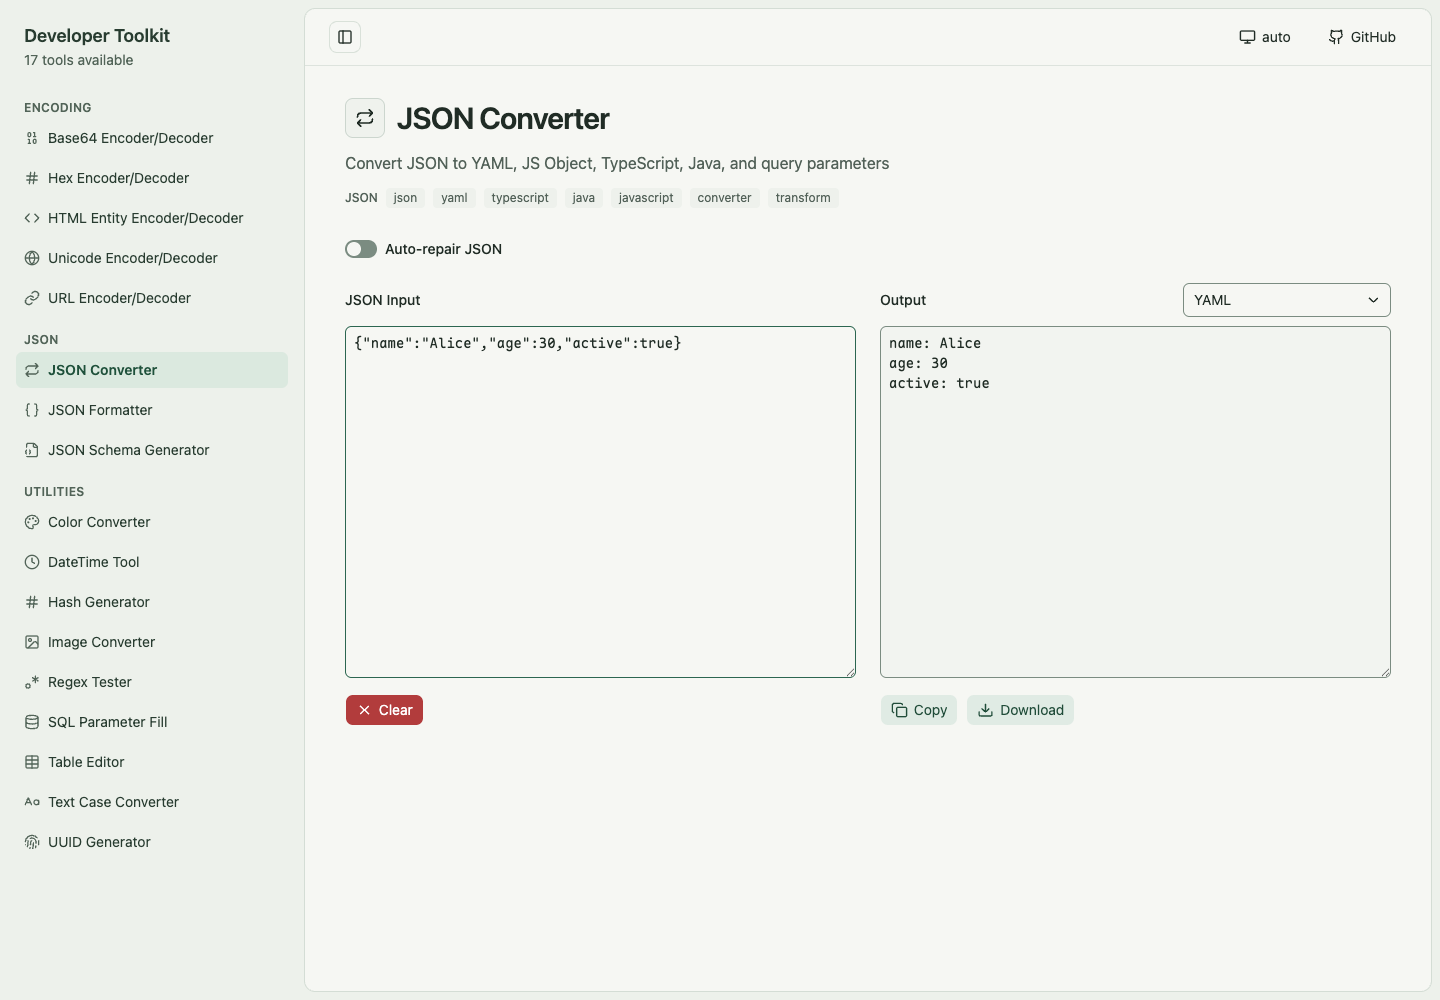
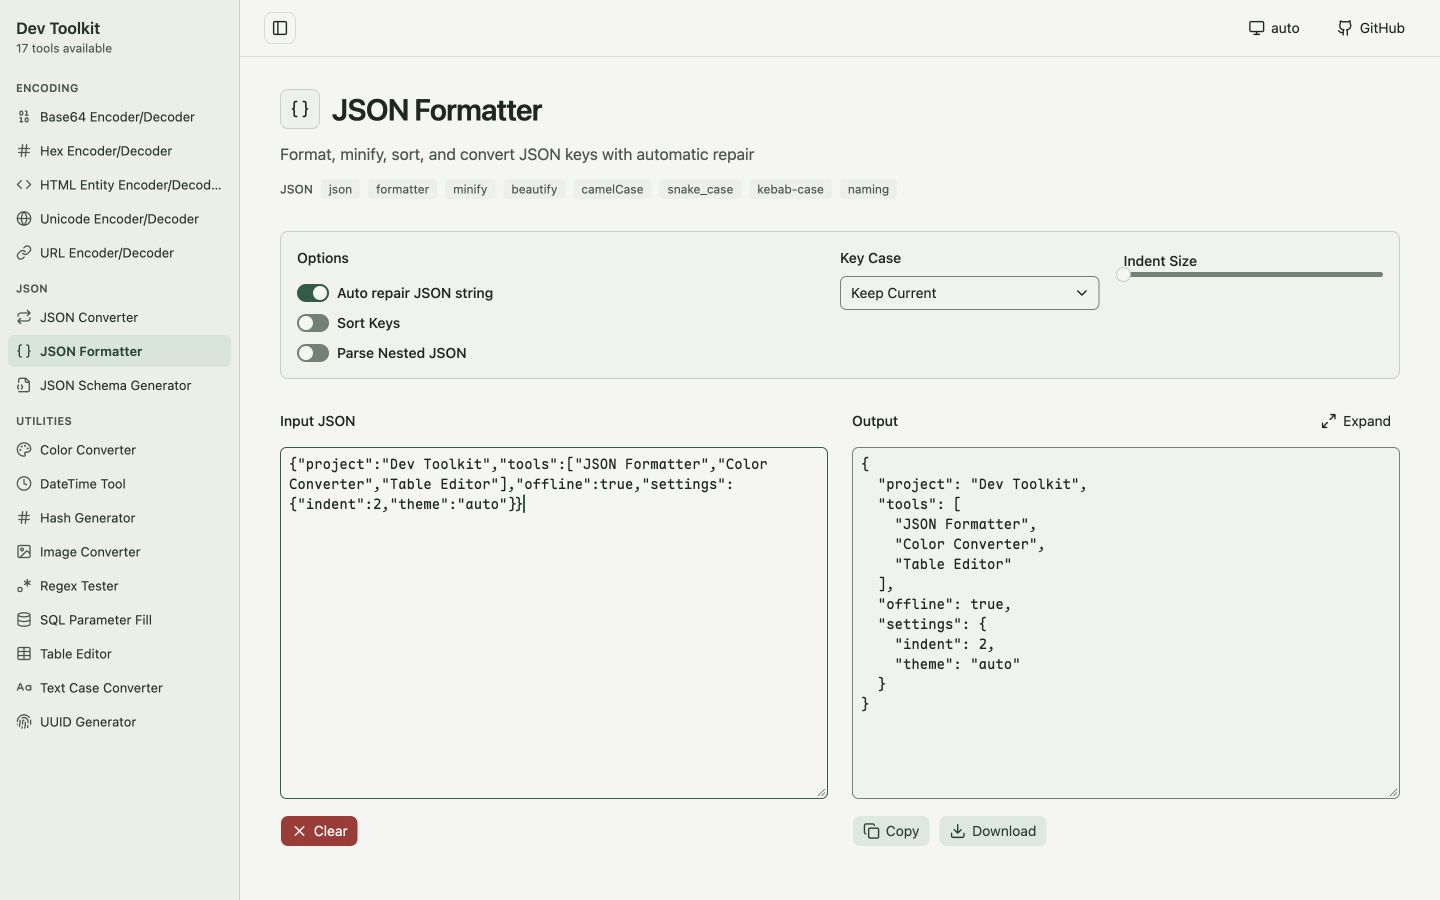
fix live sliders, JSON input loops and compact navigation

diff --git a/src/pages/(tools)/(utilities)/color.tsx b/src/pages/(tools)/(utilities)/color.tsx
@@ -31,7 +31,11 @@ const formats: ColorFormat[] = ['hex', 'rgb', 'hsl', 'hwb', 'oklch']
 const MAX_COLORS = 24
 
 function ColorConverter() {
-  const [rgb, setRgb] = createSignal<RGB>(randomColor())
+  const initialRgb = randomColor()
+  const [color, setColor] = createSignal({ rgb: initialRgb, hsl: rgbToHsl(initialRgb) })
+  const rgb = () => color().rgb
+  const hsl = () => color().hsl
+  const setRgb = (value: RGB) => setColor({ rgb: value, hsl: rgbToHsl(value) })
   const [savedColors, setSavedColors] = createSignal<string[]>([])
   const [inputValue, setInputValue] = createSignal('')
 
@@ -76,13 +80,13 @@ function ColorConverter() {
   }
 
   const updateFromSliders = (component: 'r' | 'g' | 'b', value: number) => {
-    setRgb((prev) => ({ ...prev, [component]: value }))
+    setRgb({ ...rgb(), [component]: value })
   }
 
   const updateFromHsl = (component: 'h' | 's' | 'l', value: number) => {
-    const hsl = rgbToHsl(rgb())
-    hsl[component] = value
-    setRgb(hslToRgb(hsl))
+    // Preserve hue and saturation while editing achromatic colors.
+    const next = { ...hsl(), [component]: value }
+    setColor({ rgb: hslToRgb(next), hsl: next })
   }
 
   return (
@@ -181,7 +185,7 @@ function ColorConverter() {
                   <Slider
                     aria-label="Red"
                     value={[Math.round(rgb().r)]}
-                    onValueCommit={(value) => updateFromSliders('r', value[0])}
+                    onValueChange={(value) => updateFromSliders('r', value[0])}
                     min={0}
                     max={255}
                     step={1}
@@ -192,7 +196,7 @@ function ColorConverter() {
                   <Slider
                     aria-label="Green"
                     value={[Math.round(rgb().g)]}
-                    onValueCommit={(value) => updateFromSliders('g', value[0])}
+                    onValueChange={(value) => updateFromSliders('g', value[0])}
                     min={0}
                     max={255}
                     step={1}
@@ -203,7 +207,7 @@ function ColorConverter() {
                   <Slider
                     aria-label="Blue"
                     value={[Math.round(rgb().b)]}
-                    onValueCommit={(value) => updateFromSliders('b', value[0])}
+                    onValueChange={(value) => updateFromSliders('b', value[0])}
                     min={0}
                     max={255}
                     step={1}
@@ -222,8 +226,8 @@ function ColorConverter() {
                   <label class="font-medium text-sm">Hue</label>
                   <Slider
                     aria-label="Hue"
-                    value={[Math.round(rgbToHsl(rgb()).h)]}
-                    onValueCommit={(value) => updateFromHsl('h', value[0])}
+                    value={[Math.round(hsl().h)]}
+                    onValueChange={(value) => updateFromHsl('h', value[0])}
                     min={0}
                     max={360}
                     step={1}
@@ -233,8 +237,8 @@ function ColorConverter() {
                   <label class="font-medium text-sm">Saturation</label>
                   <Slider
                     aria-label="Saturation"
-                    value={[Math.round(rgbToHsl(rgb()).s)]}
-                    onValueCommit={(value) => updateFromHsl('s', value[0])}
+                    value={[Math.round(hsl().s)]}
+                    onValueChange={(value) => updateFromHsl('s', value[0])}
                     min={0}
                     max={100}
                     step={1}
@@ -244,8 +248,8 @@ function ColorConverter() {
                   <label class="font-medium text-sm">Lightness</label>
                   <Slider
                     aria-label="Lightness"
-                    value={[Math.round(rgbToHsl(rgb()).l)]}
-                    onValueCommit={(value) => updateFromHsl('l', value[0])}
+                    value={[Math.round(hsl().l)]}
+                    onValueChange={(value) => updateFromHsl('l', value[0])}
                     min={0}
                     max={100}
                     step={1}

diff --git a/src/pages/_app.tsx b/src/pages/_app.tsx
@@ -46,28 +46,28 @@ function App(props: RouteSectionProps) {
       renderSidebarHeader={() => (
         <A
           href="/"
-          class="px-2 py-1.5 block transition-colors duration-150 rounded-md hover:bg-sidebar-accent"
+          class="px-2 py-2 block transition-colors duration-150 rounded-md hover:bg-sidebar-accent"
         >
-          <h2 class="text-sidebar-foreground font-semibold text-lg">Developer Toolkit</h2>
-          <p class="text-sidebar-muted-foreground text-sm">{count} tools available</p>
+          <h2 class="text-sidebar-foreground font-semibold text-base">Dev Toolkit</h2>
+          <p class="text-sidebar-muted-foreground text-xs">{count} tools available</p>
         </A>
       )}
       renderSidebarBody={(sidebar) => (
-        <div class="mt-4 flex flex-col gap-4">
+        <div class="mt-2 flex flex-col gap-3">
           <For each={categories}>
             {(category) => (
               <section class="flex flex-col gap-1">
-                <h3 class="text-sidebar-muted-foreground tracking-wide font-semibold px-2 uppercase text-xs">
+                <h3 class="text-[11px] text-sidebar-muted-foreground tracking-wide font-semibold px-2 uppercase">
                   {category.name}
                 </h3>
-                <div class="flex flex-col gap-1">
+                <div class="flex flex-col gap-0.5">
                   <For each={category.tools}>
                     {(tool) => (
                       <A
                         href={tool.path}
                         title={tool.info.title}
                         class={cn(
-                          'group text-sidebar-foreground leading-5 px-2 py-2 flex gap-2 transition-colors duration-200 ease-out items-center text-sm rounded-md hover:(text-sidebar-accent-foreground bg-sidebar-accent) focus-visible:effect-fv',
+                          'group text-[13px] text-sidebar-foreground leading-5 px-2 py-1 flex gap-2 min-h-11 transition-colors duration-200 ease-out items-center rounded-md hover:(text-sidebar-accent-foreground bg-sidebar-accent) focus-visible:effect-fv md:min-h-8',
                           props.location.pathname.endsWith(tool.path) &&
                             'text-sidebar-accent-foreground font-semibold bg-sidebar-accent',
                         )}
@@ -81,7 +81,7 @@ function App(props: RouteSectionProps) {
                           name={tool.info.icon as any}
                           class="text-sidebar-muted-foreground shrink-0 size-4 transition-colors duration-200 group-hover:text-sidebar-accent-foreground"
                         />
-                        <span>{tool.info.title}</span>
+                        <span class="truncate">{tool.info.title}</span>
                       </A>
                     )}
                   </For>
@@ -93,7 +93,7 @@ function App(props: RouteSectionProps) {
       )}
     >
       <div class="flex flex-col min-h-full min-w-0">
-        <header class="px-4 py-3 border-b border-border/60 flex gap-3 items-center justify-between sm:px-6">
+        <header class="px-4 py-3 border-b border-border/60 bg-background flex gap-3 items-center top-0 justify-between sticky z-20 sm:px-6">
           <SidebarTrigger />
           <div class="flex gap-2 items-center">
             <ThemeToggle class="min-w-22" />

diff --git a/src/components/moraine-migration.test.tsx b/src/components/moraine-migration.test.tsx
@@ -6,6 +6,7 @@ import { afterEach, beforeEach, describe, expect, it, vi } from 'vitest'
 
 import { RegexProvider, useRegexContext } from '#/contexts/regex-context'
 import { TableEditorProvider, useTableEditorContext } from '#/contexts/table-editor-context'
+import ColorRoute from '#/pages/(tools)/(utilities)/color'
 import TextCaseRoute from '#/pages/(tools)/(utilities)/text-case'
 import UUIDRoute from '#/pages/(tools)/(utilities)/uuid'
 
@@ -85,7 +86,7 @@ describe('tool UI integrations', () => {
     expect(screen.getByRole('heading', { name: 'Generated UUIDs (11)' })).toBeTruthy()
   })
 
-  it('delivers image format, quality, and aspect ratio changes as domain values', async () => {
+  it('delivers image settings as domain values and quality changes before release', async () => {
     const onFormatChange = vi.fn()
     const onQualityChange = vi.fn()
     const onRatioChange = vi.fn()
@@ -109,9 +110,36 @@ describe('tool UI integrations', () => {
     expect(onRatioChange).toHaveBeenCalledWith(false)
     const slider = screen.getByRole('slider', { name: 'Thumb' })
     fireEvent.keyDown(slider, { key: 'ArrowRight' })
-    expect(onQualityChange).not.toHaveBeenCalled()
-    fireEvent.keyUp(slider, { key: 'ArrowRight' })
     expect(onQualityChange).toHaveBeenCalledWith(81)
+    fireEvent.keyUp(slider, { key: 'ArrowRight' })
+    expect(onQualityChange).toHaveBeenCalledTimes(1)
+  })
+
+  it('preserves the selected hue of a gray color when saturation is increased', () => {
+    render(() => (
+      <MemoryRouter>
+        <Route path="/" component={ColorRoute.component} />
+      </MemoryRouter>
+    ))
+
+    fireEvent.input(screen.getByRole('textbox', { name: 'Color value' }), {
+      target: { value: '#808080' },
+    })
+    const hue = within(screen.getByRole('group', { name: 'Hue' })).getByRole('slider', {
+      name: 'Thumb',
+    })
+    fireEvent.keyDown(hue, { key: 'ArrowRight' })
+    fireEvent.keyUp(hue, { key: 'ArrowRight' })
+    expect(hue.getAttribute('aria-valuenow')).toBe('1')
+
+    const saturation = within(screen.getByRole('group', { name: 'Saturation' })).getByRole(
+      'slider',
+      { name: 'Thumb' },
+    )
+    fireEvent.keyDown(saturation, { key: 'End' })
+    fireEvent.keyUp(saturation, { key: 'End' })
+    expect(hue.getAttribute('aria-valuenow')).toBe('1')
+    expect(screen.getByText('hsl(1, 100%, 50%)')).toBeTruthy()
   })
 
   it('opens table export and updates SQL when key columns are checked and unchecked', async () => {

diff --git a/src/pages/(tools)/(json)/json-schema-generator.tsx b/src/pages/(tools)/(json)/json-schema-generator.tsx
@@ -1,6 +1,6 @@
 import { Input, Switch, Textarea } from 'moraine'
 import { createRoute } from 'solid-file-router'
-import { createEffect, createSignal } from 'solid-js'
+import { createEffect, createSignal, on } from 'solid-js'
 import { toast } from 'solid-toaster'
 
 import { ClearButton } from '#/components/clear-button'
@@ -27,24 +27,26 @@ function JSONSchemaGenerator() {
   const [title, setTitle] = createSignal('')
   const [description, setDescription] = createSignal('')
 
-  createEffect(() => {
-    if (!input().trim()) {
-      setOutput('')
-      return
-    }
-    try {
-      const schema = generateJsonSchema(input(), {
-        required: required(),
-        additionalProperties: additionalProperties(),
-        title: title() || undefined,
-        description: description() || undefined,
-      })
-      setOutput(schema)
-    } catch {
-      setOutput('')
-      toast.error('Invalid JSON input')
-    }
-  })
+  createEffect(
+    on([input, required, additionalProperties, title, description], () => {
+      if (!input().trim()) {
+        setOutput('')
+        return
+      }
+      try {
+        const schema = generateJsonSchema(input(), {
+          required: required(),
+          additionalProperties: additionalProperties(),
+          title: title() || undefined,
+          description: description() || undefined,
+        })
+        setOutput(schema)
+      } catch {
+        setOutput('')
+        toast.error('Invalid JSON input')
+      }
+    }),
+  )
 
   const handleClear = () => {
     setInput('')

diff --git a/src/pages/(tools)/(json)/json-converter.tsx b/src/pages/(tools)/(json)/json-converter.tsx
@@ -1,6 +1,6 @@
 import { Field, Select, Switch, Textarea } from 'moraine'
 import { createRoute } from 'solid-file-router'
-import { createEffect, createSignal } from 'solid-js'
+import { createEffect, createSignal, on } from 'solid-js'
 import { toast } from 'solid-toaster'
 
 import { ClearButton } from '#/components/clear-button'
@@ -52,7 +52,7 @@ function JSONConverter() {
 
     switch (conversionMode) {
       case 'yaml':
-        result = jsonToYAML(inputValue)
+        result = jsonToYAML(inputValue, repair)
         break
       case 'js-object':
         result = jsonToJSObject(inputValue, repair)
@@ -64,7 +64,7 @@ function JSONConverter() {
         result = jsonToJavaClass(inputValue, repair)
         break
       case 'query-params':
-        result = jsonToQueryParams(inputValue)
+        result = jsonToQueryParams(inputValue, repair)
         break
       default:
         result = { success: false, error: { message: 'Unknown conversion mode' } }
@@ -82,9 +82,11 @@ function JSONConverter() {
   }
 
   // Auto-convert on input or mode change
-  createEffect(() => {
-    convert(input(), mode(), useRepair())
-  })
+  createEffect(
+    on([input, mode, useRepair], ([value, conversionMode, repair]) => {
+      convert(value, conversionMode, repair)
+    }),
+  )
 
   const getFileExtension = () => {
     const modeToExtension: Record<ConversionMode, string> = {

diff --git a/src/utils/json/converter.ts b/src/utils/json/converter.ts
@@ -100,9 +100,9 @@ export function csvToJSON(input: string, hasHeaders?: boolean): ConversionResult
  * @param input - JSON string to convert
  * @returns ConversionResult with YAML output or error
  */
-export function jsonToYAML(input: string): ConversionResult {
+export function jsonToYAML(input: string, useRepair: boolean = false): ConversionResult {
   try {
-    const parsed = JSON.parse(input)
+    const parsed = JSON.parse(useRepair ? repairJSON(input) : input)
     const yamlOutput = stringify(parsed, {
       indent: 2,
       lineWidth: 0, // No line wrapping
@@ -146,9 +146,9 @@ export function yamlToJSON(input: string): ConversionResult {
  * @param input - JSON string to convert
  * @returns ConversionResult with query parameters output or error
  */
-export function jsonToQueryParams(input: string): ConversionResult {
+export function jsonToQueryParams(input: string, useRepair: boolean = false): ConversionResult {
   try {
-    const parsed = JSON.parse(input)
+    const parsed = JSON.parse(useRepair ? repairJSON(input) : input)
 
     // Only handle flat objects for query parameters
     if (typeof parsed !== 'object' || parsed === null || Array.isArray(parsed)) {

diff --git a/src/utils/json/converter.test.ts b/src/utils/json/converter.test.ts
@@ -1,6 +1,25 @@
 import { describe, expect, test } from 'vitest'
 
-import { jsonToJavaClass, jsonToJSObject, jsonToTSDefinition } from './converter'
+import {
+  jsonToJavaClass,
+  jsonToJSObject,
+  jsonToTSDefinition,
+  jsonToYAML,
+  jsonToQueryParams,
+} from './converter'
+
+describe('JSON repair in data exports', () => {
+  test.each([
+    ['YAML', jsonToYAML, 'name: Alice'],
+    ['query parameters', jsonToQueryParams, 'name=Alice'],
+  ] as const)('repairs malformed input for %s only when enabled', (_, convert, expected) => {
+    const input = '{name: "Alice",}'
+    expect(convert(input).success).toBe(false)
+    const result = convert(input, true)
+    expect(result.success).toBe(true)
+    expect(result.output).toContain(expected)
+  })
+})
 
 describe('jsonToJSObject', () => {
   test('converts simple JSON to JS object', () => {

diff --git a/src/components/ui/sidebar.tsx b/src/components/ui/sidebar.tsx
@@ -30,11 +30,10 @@ interface SidebarLayoutProps {
 export function SidebarLayout(props: SidebarLayoutProps) {
   return (
     <SidebarFrame
-      variant="inset"
+      variant="default"
       classes={{
-        root: 'bg-sidebar gap-2',
-        sidebar:
-          'bg-sidebar text-sidebar-foreground w-[clamp(14rem,20vw,20rem)] duration-200 ease-out',
+        root: 'bg-sidebar h-[100dvh]',
+        sidebar: 'bg-sidebar text-sidebar-foreground w-60 duration-200 ease-out',
         sidebarHeader: 'p-2',
         sidebarBody: 'px-2 pb-2',
         main: 'bg-background min-w-0',

diff --git a/src/components/image-converter/output-settings.tsx b/src/components/image-converter/output-settings.tsx
@@ -45,7 +45,7 @@ export const OutputSettings: Component<OutputSettingsProps> = (props) => {
           <Slider
             aria-label="Image Quality"
             value={[props.quality]}
-            onValueCommit={(value) => props.onQualityChange(value[0])}
+            onValueChange={(value) => props.onQualityChange(value[0])}
             min={1}
             max={100}
             step={1}

diff --git a/src/pages/(tools)/(json)/json-formatter.tsx b/src/pages/(tools)/(json)/json-formatter.tsx
@@ -175,7 +175,7 @@ function JSONFormatter() {
           <Slider
             aria-label="Indent Size"
             value={[indent()]}
-            onValueCommit={(value) => setIndent(value[0])}
+            onValueChange={(value) => setIndent(value[0])}
             min={2}
             max={8}
             step={2}
